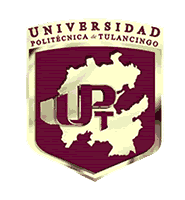
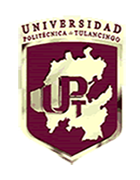
cambios de menu

diff --git a/AvanceProgramatico/AvanceProgramatico/Estilos/EstiloNavbar.css b/AvanceProgramatico/AvanceProgramatico/Estilos/EstiloNavbar.css
@@ -6,12 +6,15 @@ color:#000000;
 .jumbotron{
 background:#8A0808;
  height:160px;
-  background-size: cover;
+text-align:right;
+  background-size: auto;
       padding-top: 20px;
       padding-bottom: 20px;
       font-size:150px;
-  co;
-
+background-image: url(../images/upt.png);
+background-size:auto;
+background-repeat: no-repeat;
+ background-position: 0% 40%;
 color:#F1EAFA;
 } 
 .navbar-inverse {

diff --git a/AvanceProgramatico/AvanceProgramatico/Estilos/gridview1.css b/AvanceProgramatico/AvanceProgramatico/Estilos/gridview1.css
@@ -1,4 +1,6 @@
-body {
+
+
+body {
 }
 
 .gridview th {
@@ -10,8 +12,7 @@ padding:9px;
 }
 
 .gridview td {
-padding:8px;
-border:1px solid black;
-background-color:white;
+    padding: 8px;
+    border: 1px solid black;
+    background-color: white;
 }
-

diff --git a/AvanceProgramatico/AvanceProgramatico/Paginas/RegistroProfesores.aspx.cs b/AvanceProgramatico/AvanceProgramatico/Paginas/RegistroProfesores.aspx.cs
@@ -56,7 +56,7 @@ namespace AvanceProgramatico.Paginas
                     txtconfirmar.Text = "";
                     txtNombre.Text = "";
                     txtCorreo.Text = "";
-                    saveimg.ImageUrl = "";
+                   // saveimg.ImageUrl = "";
 
                     Response.Write("<script>alert('La matricula ya se encuentra registrada');</script>");
 
@@ -79,7 +79,7 @@ namespace AvanceProgramatico.Paginas
                         txtconfirmar.Text = "";
                         txtNombre.Text = "";
                         txtCorreo.Text = "";
-                        saveimg.ImageUrl = "";
+                      //  saveimg.ImageUrl = "";
                         String tipo = "Profesor";
                         DataTable dt;
                         String SQL = "Select Matricula,Nombre,Correo from Tbl_Usuarios where Tipo='" + tipo + "'";
@@ -121,8 +121,8 @@ namespace AvanceProgramatico.Paginas
         protected void Save(object sender, EventArgs e)
         {
             string signature = hfSign.Value;
-            saveimg.ImageUrl = signature;
-            saveimg.BorderStyle = BorderStyle.Solid;
+          //  saveimg.ImageUrl = signature;
+           // saveimg.BorderStyle = BorderStyle.Solid;
 
             url = signature;
 
@@ -167,6 +167,11 @@ namespace AvanceProgramatico.Paginas
                 GridView2.DataBind();
             }
 
+        }
+
+        protected void GridView1_RowCreated(object sender, GridViewRowEventArgs e)
+        {
+            
         }
     }
 }

diff --git a/AvanceProgramatico/AvanceProgramatico/Paginas/Reg_Jefe_Grupo.aspx.cs b/AvanceProgramatico/AvanceProgramatico/Paginas/Reg_Jefe_Grupo.aspx.cs
@@ -52,7 +52,7 @@ namespace AvanceProgramatico.Paginas
                     txtConfirmar.Text = "";
                     txtNombre.Text = "";
                     txtCorreo.Text = "";
-                    saveimg.ImageUrl = "";
+                  //  saveimg.ImageUrl = "";
 
                     Response.Write("<script>alert('La matricula ya se encuentra registrada');</script>");
 
@@ -73,7 +73,7 @@ namespace AvanceProgramatico.Paginas
                         txtConfirmar.Text = "";
                         txtNombre.Text = "";
                         txtCorreo.Text = "";
-                        saveimg.ImageUrl = "";
+                      //  saveimg.ImageUrl = "";
 
                         String tipo = "Alumno";
                        
@@ -113,8 +113,8 @@ namespace AvanceProgramatico.Paginas
         protected void Save(object sender, EventArgs e)
         {
             string signature = hfSign.Value;
-            saveimg.ImageUrl = signature;
-            saveimg.BorderStyle = BorderStyle.Solid;
+          //  saveimg.ImageUrl = signature;
+            //saveimg.BorderStyle = BorderStyle.Solid;
 
             url = signature;
 
@@ -168,9 +168,15 @@ namespace AvanceProgramatico.Paginas
             cmbGrupo.DataBind();
 
         }
-      
 
+        protected void GridView2_SelectedIndexChanged(object sender, EventArgs e)
+        {
 
+        }
 
+        protected void GridView2_RowCreated(object sender, GridViewRowEventArgs e)
+        {
+          
+        }
     }
 }

diff --git a/AvanceProgramatico/AvanceProgramatico/Paginas/Reg_Jefe_Grupo.aspx.designer.cs b/AvanceProgramatico/AvanceProgramatico/Paginas/Reg_Jefe_Grupo.aspx.designer.cs
@@ -137,14 +137,5 @@ namespace AvanceProgramatico.Paginas {
         /// To modify move field declaration from designer file to code-behind file.
         /// </remarks>
         protected global::System.Web.UI.WebControls.GridView GridView2;
-        
-        /// <summary>
-        /// saveimg control.
-        /// </summary>
-        /// <remarks>
-        /// Auto-generated field.
-        /// To modify move field declaration from designer file to code-behind file.
-        /// </remarks>
-        protected global::System.Web.UI.WebControls.Image saveimg;
     }
 }

diff --git a/AvanceProgramatico/AvanceProgramatico/Paginas/RegistroProfesores.aspx.designer.cs b/AvanceProgramatico/AvanceProgramatico/Paginas/RegistroProfesores.aspx.designer.cs
@@ -128,14 +128,5 @@ namespace AvanceProgramatico.Paginas {
         /// To modify move field declaration from designer file to code-behind file.
         /// </remarks>
         protected global::System.Web.UI.WebControls.GridView GridView2;
-        
-        /// <summary>
-        /// saveimg control.
-        /// </summary>
-        /// <remarks>
-        /// Auto-generated field.
-        /// To modify move field declaration from designer file to code-behind file.
-        /// </remarks>
-        protected global::System.Web.UI.WebControls.Image saveimg;
     }
 }
